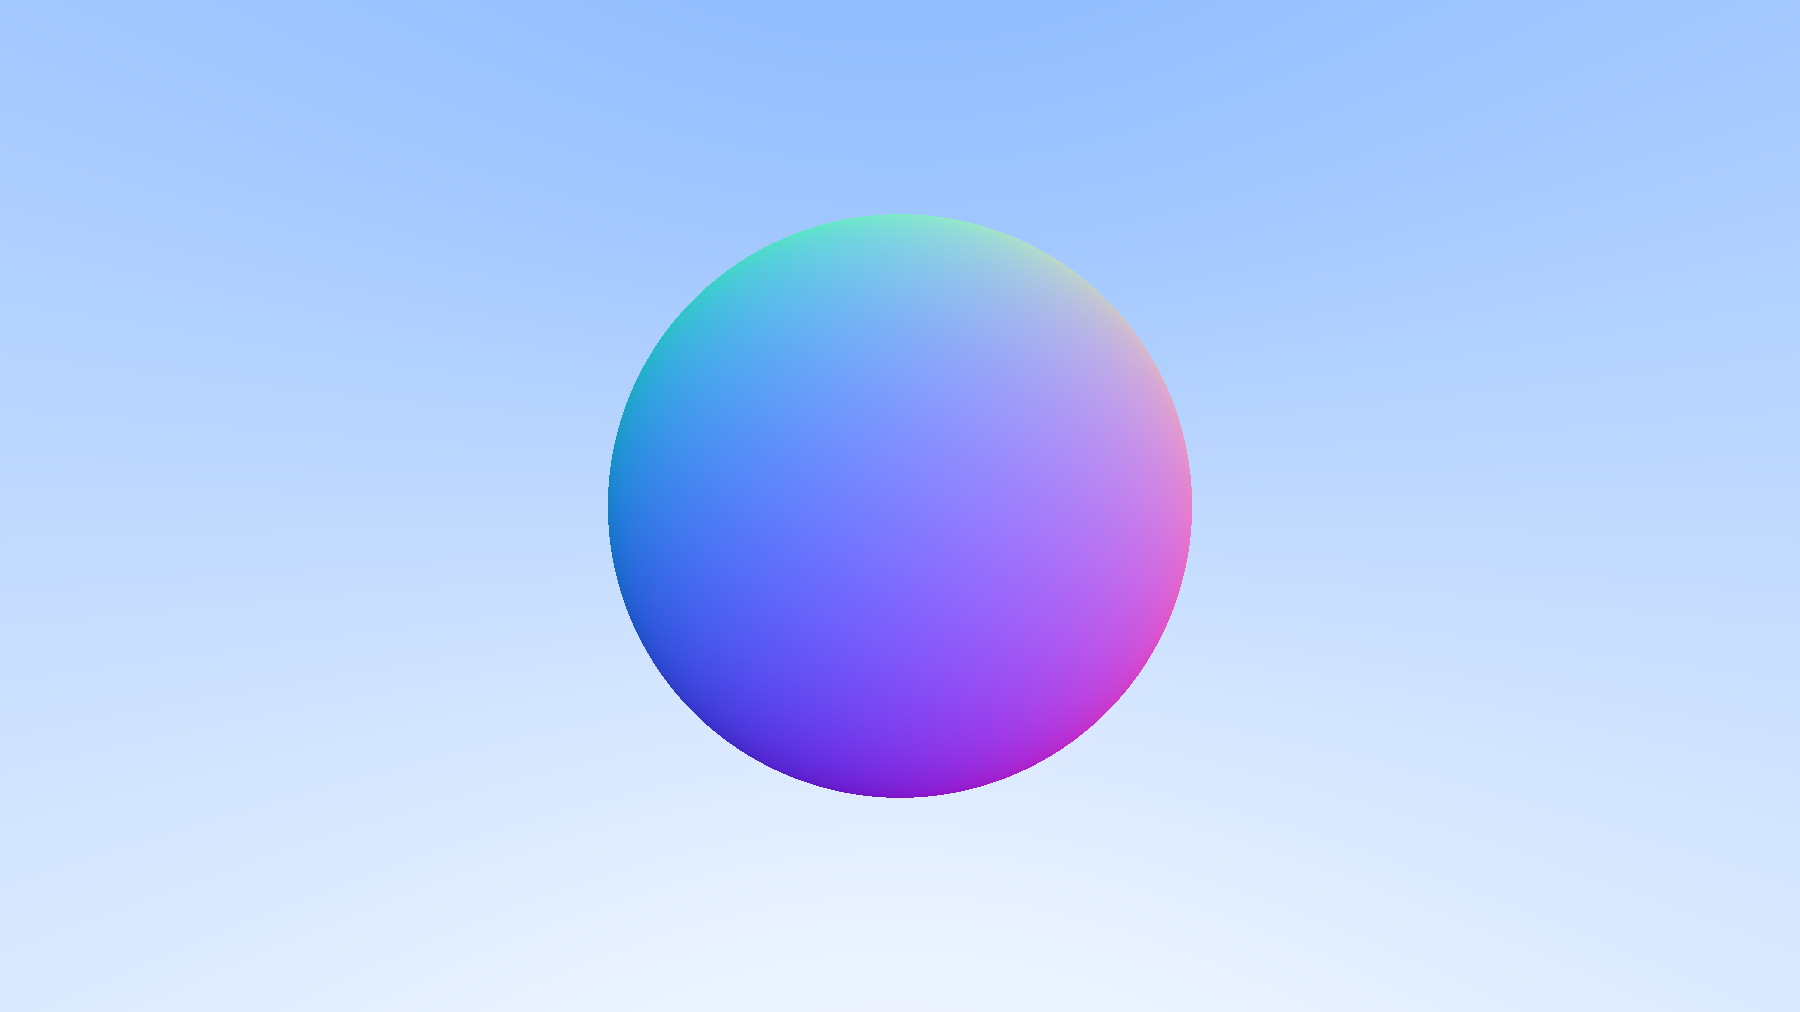
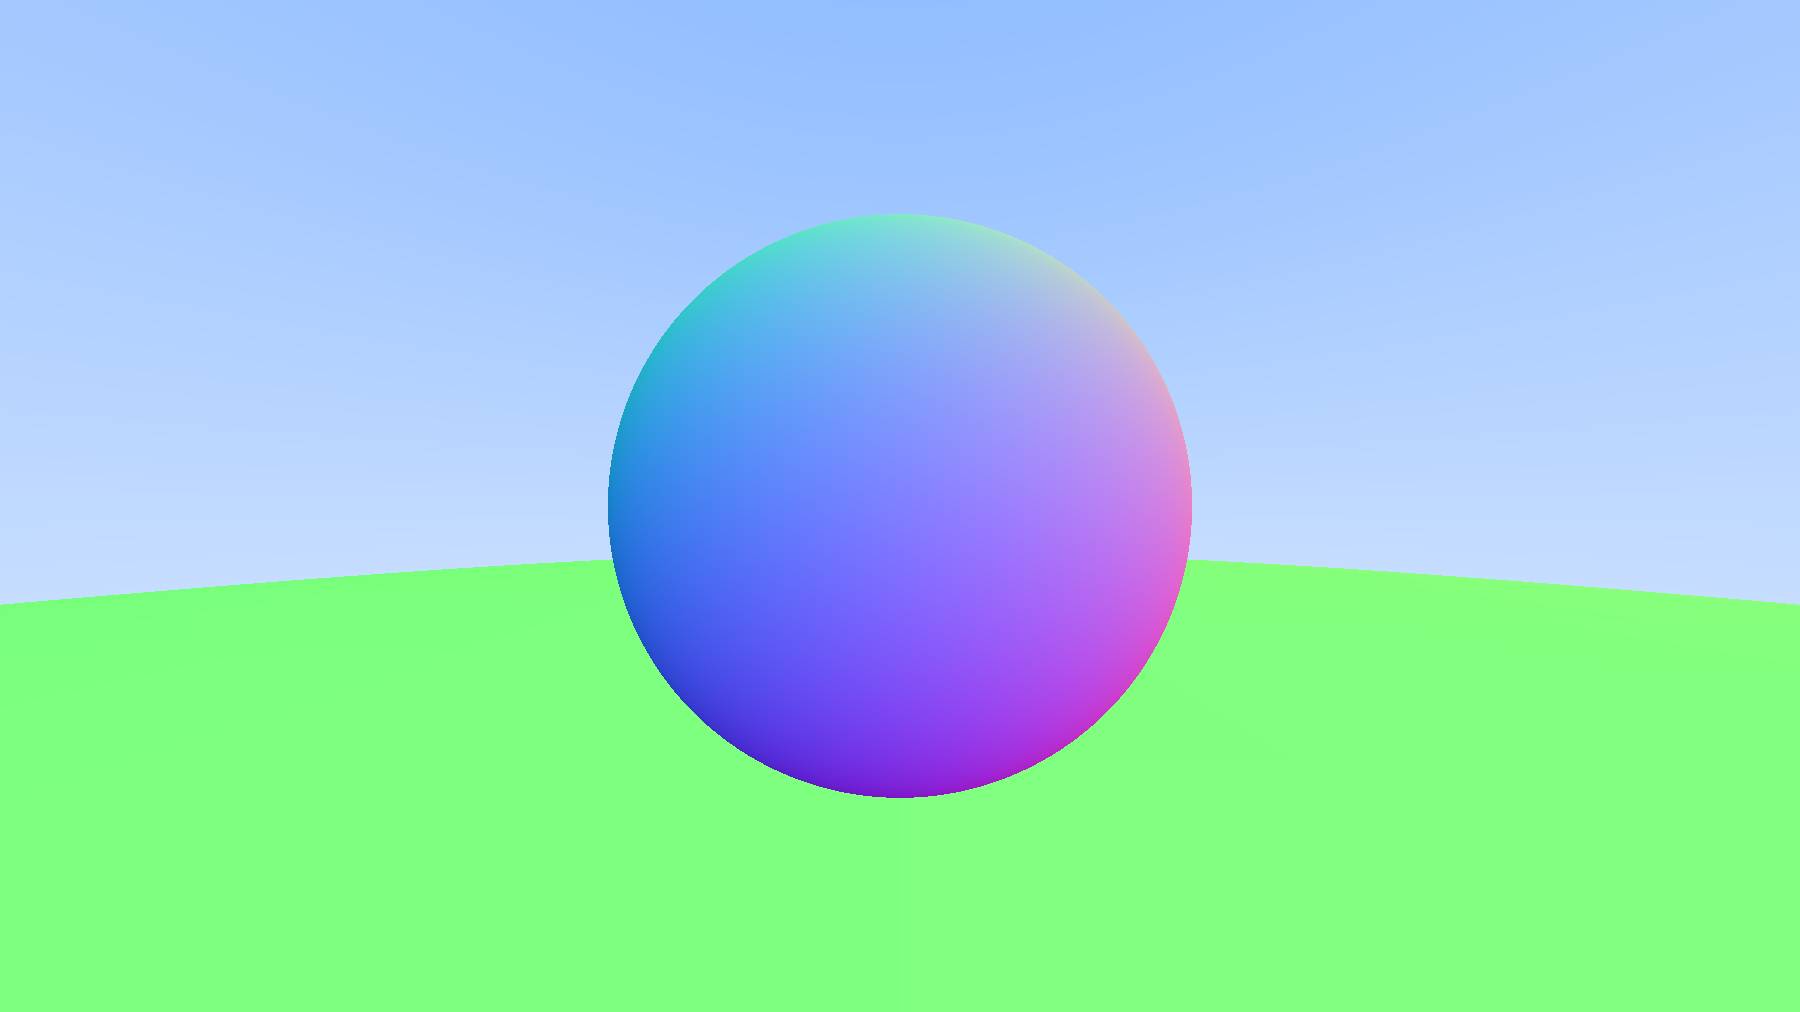
antialiasing

diff --git a/main.cpp b/main.cpp
@@ -1,6 +1,7 @@
 #include "Png_Image.h"
-#include "types.h"
-#include "ray.h"
+#include "hittable_list.h"
+#include "sphere.h"
+#include "camera.h"
 
 double hit_sphere(const point3& center, double radius, const ray& r) {
     vec3 oc = r.origin() - center;
@@ -15,42 +16,44 @@ double hit_sphere(const point3& center, double radius, const ray& r) {
     }
 }
 
-color ray_color(const ray& r) {
-    auto t = hit_sphere(point3(0,0,-1), 0.5, r);
-    if (t > 0.0) {
-        vec3 N = glm::normalize(r.at(t) - point3(0,0,-1));
-        return 0.5*color(N.x+1, N.y+1, N.z+1);
+color ray_color(const ray& r, const hittable &world) {
+    hit_record rec;
+    if (world.hit(r, 0, infinity, rec)) {
+        return 0.5 * (rec.normal + color(1,1,1));
     }
     vec3 unit_direction = glm::normalize(r.direction());
-    t = 0.5 * (unit_direction.y + 1.0);
+    auto t = 0.5 * (unit_direction.y + 1.0);
     return (1.0 - t) * color(1.0, 1.0, 1.0) + t*color(0.5, 0.7, 1.0);
 }
 
 int main(){
     // Image
+
+
     const auto aspect_ratio = 16.0 / 9.0;
-    const int image_width = 1800;
+    const int image_width = 400;
     const int image_height = static_cast<int>(image_width / aspect_ratio);
+    const int samples_per_pixel = 1;
 
-    auto viewport_height = 2.0;
-    auto viewport_width = aspect_ratio * viewport_height;
-    auto focal_length = 1.0;
+    hittable_list world;
+    world.add(make_shared<sphere>(point3(0,0,-1), 0.5));
+    world.add(make_shared<sphere>(point3(0,-100.5,-1), 100));
 
-    auto origin = point3(0, 0, 0);
-    auto horizontal = vec3(viewport_width, 0, 0);
-    auto vertical = vec3(0, viewport_height, 0);
-    auto lower_left_corner = origin - horizontal * 0.5 - vertical * 0.5 - vec3(0, 0, focal_length);
+    camera cam;
 
     Png_Image png(image_width, image_height);
     for (int row = png.height() - 1; row >= 0; row--) {
         for (int col = 0; col < png.width(); col++) {
-            auto u = double(col) / (image_width-1);
-            auto v = double(row) / (image_height-1);
-            ray r(origin, lower_left_corner + u*horizontal + v*vertical - origin);
-            color pixel_color = ray_color(r);
-            png.saveColorSeq(pixel_color);
+            color pixel_color(0, 0, 0);
+            for (int s = 0; s < samples_per_pixel; ++s) {
+                auto u = (col + random_double()) / (image_width - 1);
+                auto v = (row + random_double()) / (image_height - 1);
+                ray r = cam.get_ray(u, v);
+                pixel_color += ray_color(r, world);
+            }
+            png.saveColorSeq(pixel_color, samples_per_pixel);
         }
     }
-    png.write("6.sphereNormalize.png");
+    png.write("7.antiAliasing.png");
     return 0;
 }

diff --git a/utils/Png_Image.h b/utils/Png_Image.h
@@ -6,7 +6,7 @@
 #define RAY_TRACING_PNG_IMAGE_H
 #include "stb_image.h"
 #include "stb_image_write.h"
-#include "types.h"
+#include "utility.h"
 class Png_Image {
 public:
     Png_Image(int w, int h, int n = 4) {
@@ -19,18 +19,20 @@ public:
     Png_Image(Png_Image& other) = delete;
     Png_Image& operator=(Png_Image& other) = delete;
 
-    void saveColor(color clr, int row, int col, int alpha=1){
-        getIdx(row, col, 0) = clr.x * color_rate;
-        getIdx(row, col, 1) = clr.y * color_rate;
-        getIdx(row, col, 2) = clr.z * color_rate;
-        getIdx(row, col, 3) = alpha * color_rate;
+    void saveColor(color clr, int row, int col, int samples_per_pixel = 1){
+        double crate = color_scale / samples_per_pixel;
+        getIdx(row, col, 0) = clamp(clr.x * crate, 0, 255);
+        getIdx(row, col, 1) = clamp(clr.y * crate, 0, 255);
+        getIdx(row, col, 2) = clamp(clr.z * crate, 0, 255);
+        getIdx(row, col, 3) = alpha_scale;
     }
 
-    void saveColorSeq(color clr, int alpha=1){
-        *(data + curIdx++) = clr.x * color_rate;
-        *(data + curIdx++) = clr.y * color_rate;
-        *(data + curIdx++) = clr.z * color_rate;
-        *(data + curIdx++) = alpha * color_rate;
+    void saveColorSeq(color clr, int samples_per_pixel = 1){
+        double crate = color_scale / samples_per_pixel;
+        *(data + curIdx++) = clamp(clr.x * crate, 0, 255);
+        *(data + curIdx++) = clamp(clr.y * crate, 0, 255);
+        *(data + curIdx++) = clamp(clr.z * crate, 0, 255);
+        *(data + curIdx++) = alpha_scale;
         curIdx %= imgSize;
     }
     int width() { return data_w; }
@@ -47,7 +49,7 @@ private:
     int data_w, data_h, data_n;
     int imgSize;
     int curIdx = 0;
-    const double color_rate = 255.999;
+    const double color_scale = 255.999, alpha_scale = 255.999;
     unsigned char& getIdx(int row, int col, int rgba){
         return *(data + (row * data_w + col) * data_n + rgba);
     }

diff --git a/render/sphere.h b/render/sphere.h
@@ -1,0 +1,52 @@
+//
+// Created by cosmos on 8/4/20.
+//
+
+#ifndef RAY_TRACING_SPHERE_H
+#define RAY_TRACING_SPHERE_H
+
+#include "hittable.h"
+class sphere : public hittable {
+public:
+    sphere() {}
+    sphere(point3 cen, double r) : center(cen), radius(r) {};
+    virtual bool hit(const ray& r, double tmin, double tmax, hit_record& rec) const override;
+
+public:
+    point3 center;
+    double radius;
+};
+
+bool sphere::hit(const ray& r, double t_min, double t_max, hit_record& rec) const {
+    vec3 oc = r.origin() - center;
+    auto a = dot(r.direction(), r.direction());
+    auto half_b = dot(oc, r.direction());
+    auto c = dot(oc, oc) - radius*radius;
+    auto discriminant = half_b * half_b - a * c;
+
+    if (discriminant > 0) {
+        auto root = sqrt(discriminant);
+
+        auto temp = (-half_b - root) / a;
+        if (temp < t_max && temp > t_min) {
+            rec.t = temp;
+            rec.p = r.at(rec.t);
+            vec3 outward_normal = (rec.p - center) / radius;
+            rec.set_face_normal(r, outward_normal);
+            return true;
+        }
+
+        temp = (-half_b + root) / a;
+        if (temp < t_max && temp > t_min) {
+            rec.t = temp;
+            rec.p = r.at(rec.t);
+            vec3 outward_normal = (rec.p - center) / radius;
+            rec.set_face_normal(r, outward_normal);
+            return true;
+        }
+    }
+
+    return false;
+}
+
+#endif //RAY_TRACING_SPHERE_H

diff --git a/utils/utility.h b/utils/utility.h
@@ -1,0 +1,58 @@
+//
+// Created by cosmos on 8/4/20.
+//
+
+#ifndef RAY_TRACING_UTILITY_H
+#define RAY_TRACING_UTILITY_H
+
+#include <glm/glm.hpp>
+#include <vector>
+#include <cmath>
+#include <cstdlib>
+#include <limits>
+#include <memory>
+#include <random>
+
+using color = glm::dvec3;
+using point3 = glm::dvec3;
+using vec3 = glm::dvec3;
+
+using std::shared_ptr;
+using std::make_shared;
+using std::sqrt;
+
+// Usings
+
+using std::shared_ptr;
+using std::make_shared;
+using std::sqrt;
+
+// Constants
+
+const double infinity = std::numeric_limits<double>::infinity();
+const double pi = 3.1415926535897932385;
+
+// Utility Functions
+
+inline double degrees_to_radians(double degrees) {
+    return degrees * pi / 180.0;
+}
+
+inline double clamp(double x, double min, double max) {
+    if (x < min) return min;
+    if (x > max) return max;
+    return x;
+}
+
+inline double random_double() {
+    static std::uniform_real_distribution<double> distribution(0.0, 1.0);
+    static std::mt19937 generator;
+    return distribution(generator);
+}
+
+inline double random_double(double min, double max) {
+    // Returns a random real in [min,max).
+    return min + (max-min)*random_double();
+}
+
+#endif //RAY_TRACING_UTILITY_H

diff --git a/render/hittable_list.h b/render/hittable_list.h
@@ -1,0 +1,45 @@
+//
+// Created by cosmos on 8/4/20.
+//
+
+#ifndef RAY_TRACING_HITTABLE_LIST_H
+#define RAY_TRACING_HITTABLE_LIST_H
+#include "hittable.h"
+
+#include <memory>
+#include <vector>
+
+using std::shared_ptr;
+using std::make_shared;
+
+class hittable_list : public hittable {
+public:
+    hittable_list() {}
+    hittable_list(shared_ptr<hittable> object) { add(object); }
+
+    void clear() { objects.clear(); }
+    void add(shared_ptr<hittable> object) { objects.push_back(object); }
+
+    virtual bool hit(
+            const ray& r, double tmin, double tmax, hit_record& rec) const override;
+
+private:
+    std::vector<shared_ptr<hittable>> objects;
+};
+
+bool hittable_list::hit(const ray& r, double t_min, double t_max, hit_record& rec) const {
+    hit_record temp_rec;
+    bool hit_anything = false;
+    auto closest_so_far = t_max;
+
+    for (const auto& object : objects) {
+        if (object->hit(r, t_min, closest_so_far, temp_rec)) {
+            hit_anything = true;
+            closest_so_far = temp_rec.t;
+            rec = temp_rec;
+        }
+    }
+
+    return hit_anything;
+}
+#endif //RAY_TRACING_HITTABLE_LIST_H

diff --git a/render/camera.h b/render/camera.h
@@ -1,0 +1,35 @@
+//
+// Created by cosmos on 8/4/20.
+//
+
+#ifndef RAY_TRACING_CAMERA_H
+#define RAY_TRACING_CAMERA_H
+
+#include "ray.h"
+
+class camera {
+public:
+    camera() {
+        auto aspect_ratio = 16.0 / 9.0;
+        auto viewport_height = 2.0;
+        auto viewport_width = aspect_ratio * viewport_height;
+        auto focal_length = 1.0;
+
+        origin = point3(0, 0, 0);
+        horizontal = vec3(viewport_width, 0.0, 0.0);
+        vertical = vec3(0.0, viewport_height, 0.0);
+        lower_left_corner = origin - horizontal * 0.5 - vertical * 0.5 - vec3(0, 0, focal_length);
+    }
+
+    ray get_ray(double u, double v) const {
+        return ray(origin, lower_left_corner + u*horizontal + v*vertical - origin);
+    }
+
+private:
+    point3 origin;
+    point3 lower_left_corner;
+    vec3 horizontal;
+    vec3 vertical;
+};
+
+#endif //RAY_TRACING_CAMERA_H

diff --git a/render/hittable.h b/render/hittable.h
@@ -1,0 +1,26 @@
+//
+// Created by cosmos on 8/4/20.
+//
+
+#ifndef RAY_TRACING_HITTABLE_H
+#define RAY_TRACING_HITTABLE_H
+
+#include "ray.h"
+
+struct hit_record {
+    point3 p;
+    vec3 normal;
+    double t;
+    bool front_face;
+    inline void set_face_normal(const ray& r, const vec3& outward_normal) {
+        front_face = dot(r.direction(), outward_normal) < 0;
+        normal = front_face ? outward_normal :-outward_normal;
+    }
+};
+
+class hittable {
+public:
+    virtual bool hit(const ray& r, double t_min, double t_max, hit_record& rec) const = 0;
+};
+
+#endif //RAY_TRACING_HITTABLE_H

diff --git a/render/ray.h b/render/ray.h
@@ -5,9 +5,7 @@
 #define RAY_TRACING_RAY_HPP
 
 #include <glad/glad.h>
-#include <glm/glm.hpp>
-#include <glm/gtc/matrix_transform.hpp>
-#include <types.h>
+#include <utility.h>
 
 class ray {
 public:
